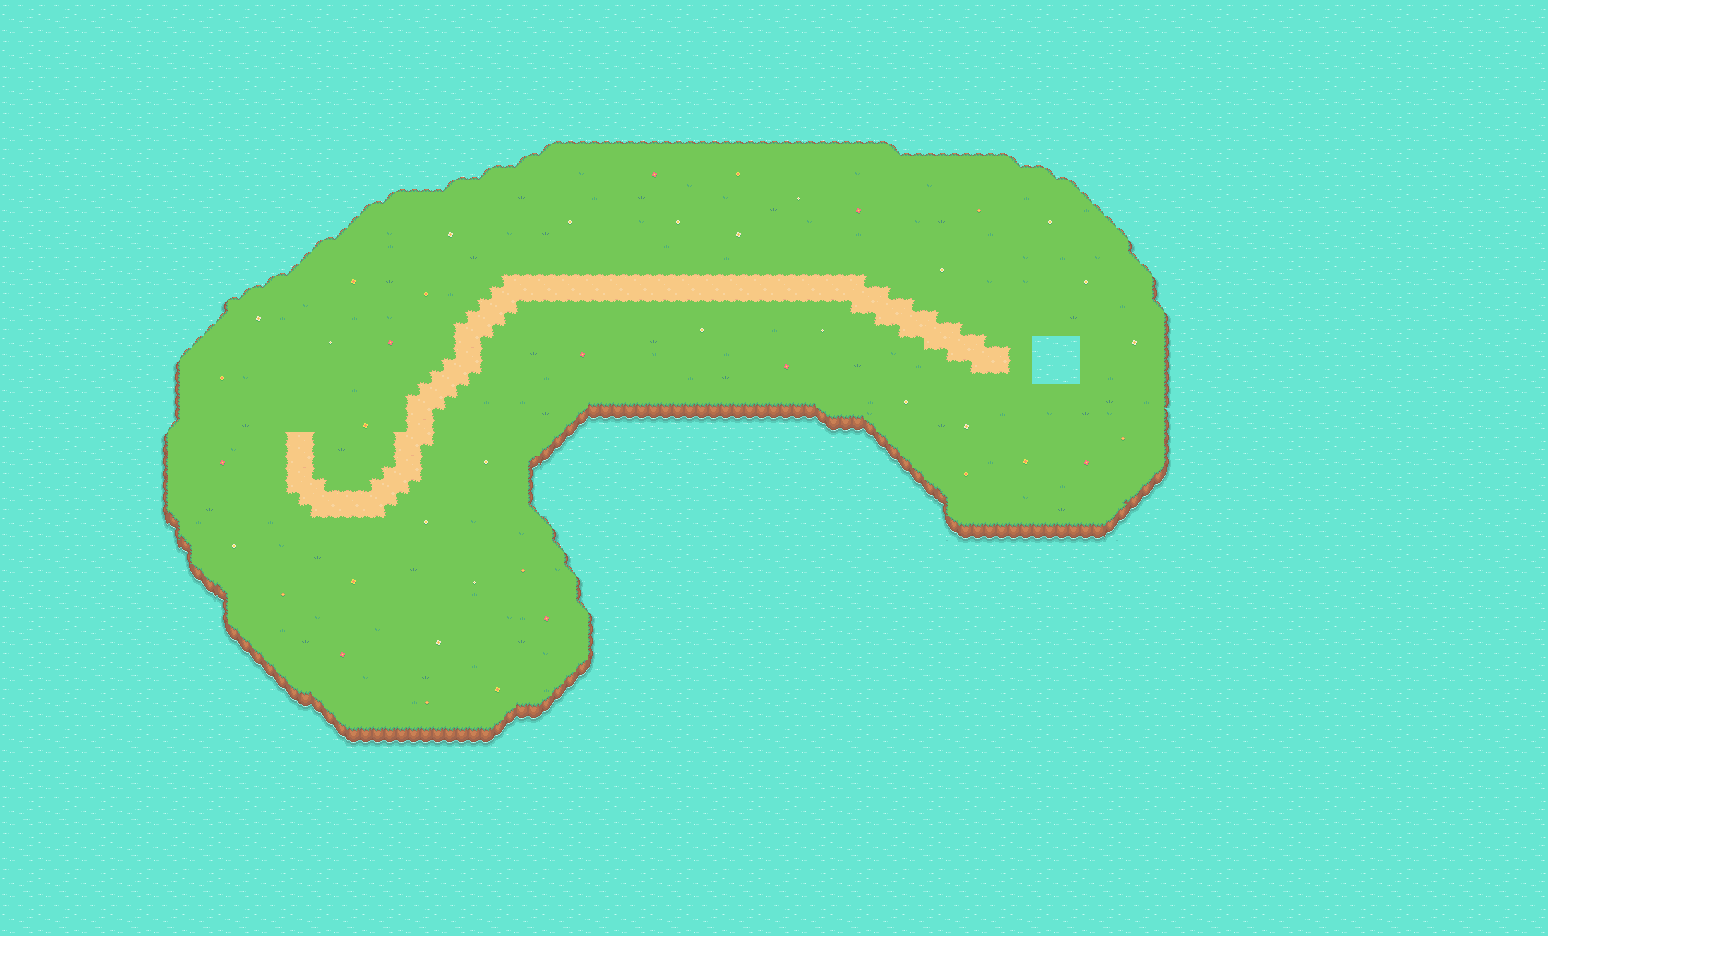
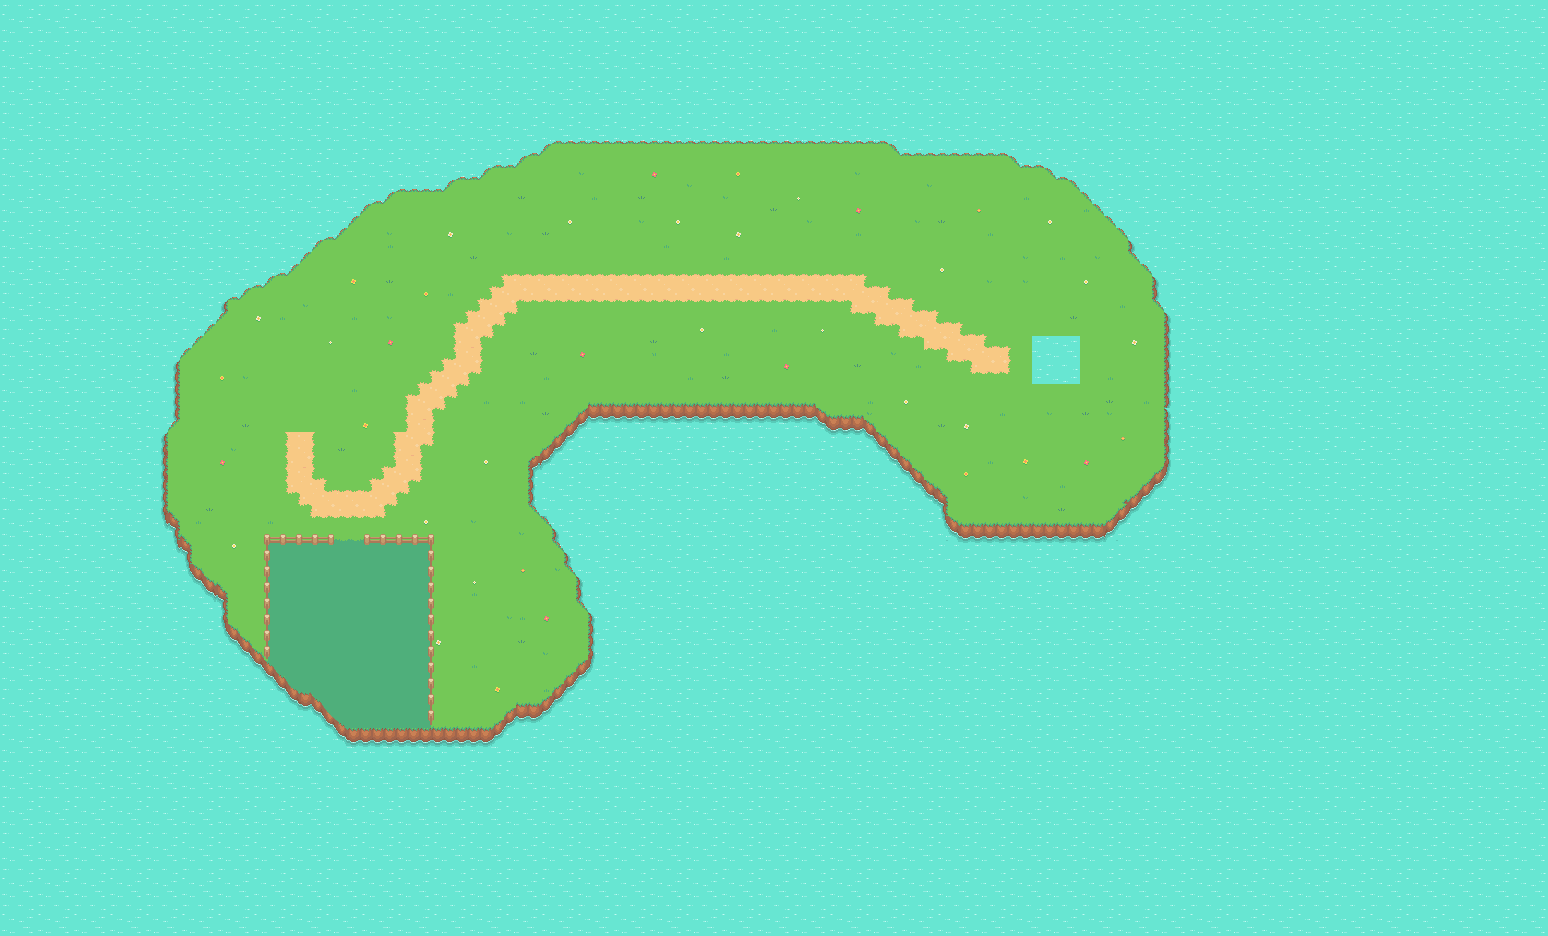
Added new map tiles, fences, beds and correct colliders.

Changed region(s): [[0.093, 0.1239, 0.7752, 0.8056], [0.0, 0.0, 1.0, 1.0]]

diff --git a/src/App.vue b/src/App.vue
@@ -2,6 +2,8 @@
   <div class="console">
     <div class="pad">
       <div class="pad_top">
+        <!-- <p v-if="world != null">X:{{ Math.floor(world.player.x/12) }}</p> -->
+        <!-- <p v-if="world != null">Y:{{ Math.floor(world.player.y/12) }}</p> -->
         <div class="dinamic">
           <div class="sound_dot"></div>
           <div class="sound_dot"></div>
@@ -40,16 +42,29 @@
     </div>
     <div class="screen">
       <div class="screen_edge">
+
         <div class="world">
+          <div class="money" v-if="world != undefined">
+            <img src="./assets/coin.png" alt="">
+            <p>{{ world.player.money }}</p>
+          </div>
+          <div class="intentory">
+            <div class="backpack_icon">
+              <img src="./assets/backpack.png" alt="">
+            </div>
+          </div>
           <div class="map">
             <img src="./assets/map.png" alt="" class="map_bg">
+            <div class="shadow" v-if="world != undefined"
+              :style="`top:${world.player.y}px; left: ${world.player.x}px; background-color: rgba(0,0,0,0.2); width:38px; height:18px; border-radius:10px; transform:scaleY(0.5) scaleX(0.9) translateX(-5px) translateY(65px);`">
+            </div>
             <img src="" alt="" class="player">
             <img v-if="world != undefined" v-for="(obj, i) of world.objects" :key="i" :src="obj.image"
               :class="obj.class" :style="`top:calc(12px*${obj.x});left:calc(12px*${obj.y})`" alt="" @click="test">
-            <img v-if="world != undefined" v-for="(obj, i) of world.objects" :key="i"
-              :style="`position: absolute; border: 2px solid red; top:calc(12px*${obj.collider.y});left:calc(12px*${obj.collider.x}); width:calc(12px*${obj.collider.width}); height:calc(12px*${obj.collider.height});`">
-            <div v-if="world != undefined" class="center" :style="`width: 5px; height: 5px; top:calc(1px*${world.player.y});left:calc(1px*${world.player.x})`"></div>
-            </div>
+            <img class="collider" v-if="world != undefined" v-for="(obj, i) of world.objects" :key="i"
+              :style="`top:calc(12px*${obj.collider.y});left:calc(12px*${obj.collider.x}); width:calc(12px*${obj.collider.width}); height:calc(12px*${obj.collider.height});`">
+            <!-- <div v-if="world != undefined" class="center" :style="`width: 5px; height: 5px; top:calc(1px*${world.player.y});left:calc(1px*${world.player.x})`"></div> -->
+          </div>
         </div>
       </div>
     </div>
@@ -112,6 +127,9 @@ window.addEventListener('keydown', (e) => {
   if (e.key == "s") {
     keys.s = true
   }
+  if (e.key == "Tab") {
+    keys.s = true
+  }
 })
 window.addEventListener('keyup', (e) => {
   if (e.key == "a") {
@@ -129,23 +147,47 @@ window.addEventListener('keyup', (e) => {
 })
 
 class Props {
-  constructor(name, img, x, y, cx, cy, cw, ch) {
+  constructor(name, x, y, cx, cy, cw, ch) {
     this.x = x
     this.y = y
     this.width = 0
     this.height = 0
-    this.image = img
     this.class = name
+    this.name = name
     this.collider = {
-      x: cx,
-      y: cy,
-      width: cw,
-      height: ch
+      x: cx - cw / 2,
+      y: cy - ch / 2,
+      width: cw * 2,
+      height: ch * 2
     }
+  }
+  get image() {
+    return `./src/assets/${this.name}.png`
   }
 }
 
-const speed = 6
+class Upgradable extends Props {
+  constructor(name, x, y, cx, cy, cw, ch) {
+    super(name, x, y, cx, cy, cw, ch)
+    this.level = 0
+    this.class += " upgradable"
+  }
+  get image() {
+    return `./src/assets/${this.name}_lvl${this.level}.png`
+  }
+}
+
+class Bed extends Upgradable {
+  constructor(name, x, y, cx, cy, cw, ch) {
+    super(name, x, y, cx, cy, cw, ch)
+    this.class += " bed"
+  }
+  get image() {
+    return `./src/assets/bed_lvl${this.level}_${this.name}.png`
+  }
+}
+
+const speed = 4
 const tileSize = 12
 
 const test = (e) => {
@@ -157,11 +199,13 @@ class Player {
     this.height = tileSize * 1.5
     this.width = tileSize * 1
     this.x = -260;
-    this.y = 380;
+    this.y = 390;
     this.currentAnimation = 0
     this.direction = "down"
     this.img = document.querySelector('.player')
     this.animateInterval = null
+    this.inventory = []
+    this.money = 100
   }
   draw() {
     this.img.src = `./src/assets/player_${this.direction}${this.currentAnimation}.png`
@@ -185,8 +229,66 @@ class Map {
     this.globalOffsetY = 0
     this.scale = 2
     this.objects = [
-      new Props('lake', './src/assets/lake.png', 22, 106, 102, 18, 4, 4),
-      new Props('house', './src/assets/house_lvl1.png', 23, -24, -24, 26, 4, 4),
+      // Get from json
+      new Props('lake', 17, 102, 102, 17, 4, 5),
+      new Upgradable('house', 23, -24, -24, 26, 4, 4),
+      new Props('tree', -5, 25, 25.5, -1.5, 2.5, 1.5),
+      new Props('tree', -3, 20, 20.5, 0.5, 2.5, 1.5),
+      new Props('tree', -9, 30, 30.5, -5.5, 2.5, 1.5),
+      new Props('tree', -7, 36, 36.5, -3.5, 2.5, 1.5),
+      new Props('tree', -1, 29, 29.5, 1.5, 2.5, 1.5),
+      new Props('tree', -9, 27 + 30, 27.5 + 30, -5.5, 2.5, 1.5),
+      new Props('tree', -7, 36 + 30, 36.5 + 30, -3.5, 2.5, 1.5),
+      new Props('tree', -5, 30 + 30, 30.5 + 30, -1.5, 2.5, 1.5),
+      new Props('tree', -3, 25 + 30, 25.5 + 30, 0.5, 2.5, 1.5),
+      new Upgradable('apple_tree', 30, -15, -14, 36, 3.5, 1.5),
+      new Upgradable('apple_tree', 30, -35, -34, 36, 3.5, 1.5),
+      new Bed('wheat', 54, -24, -24, 54, 4, 4),
+      new Bed('wheat', 64, -24, -24, 64, 4, 4),
+      new Bed('tomatoes', 54, -8, -8, 54, 4, 4),
+      new Bed('tomatoes', 64, -8, -8, 64, 4, 4),
+      new Bed('tomatoes', 74, -8, -8, 74, 4, 4),
+      new Props('edge', 0, 0, 17, 38, 2, 4),
+      new Props('edge', 0, 0, 19, 35, 2, 2),
+      new Props('edge', 0, 0, 21, 33, 2, 2),
+      new Props('edge', 0, 0, 23, 31, 2, 2),
+      new Props('edge', 0, 0, 25, 29, 2, 2),
+      new Props('edge', 0, 0, 36, 28, 20, 2),
+      new Props('edge', 0, 0, 19, 44, 2, 2),
+      new Props('edge', 0, 0, 21, 46, 2, 2),
+      new Props('edge', 0, 0, 23, 48, 2, 4),
+      new Props('edge', 0, 0, 25, 54, 2, 4),
+      new Props('edge', 0, 0, 27, 60, 2, 6),
+      new Props('edge', 0, 0, 25, 70, 2, 2),
+      new Props('edge', 0, 0, 23, 72, 2, 2),
+      new Props('edge', 0, 0, 21, 74, 2, 2),
+      new Props('edge', 0, 0, 19, 76, 2, 2),
+      new Props('edge', 0, 0, 15, 78, 4, 2),
+      new Props('edge', 0, 0, 11, 80, 2, 2),
+      new Props('edge', 0, 0, -7, 82, 13, 2),
+      new Props('edge', 0, 0, -17, 80, 2, 2),
+      new Props('edge', 0, 0, -20, 78, 2, 2),
+      new Props('edge', 0, 0, -22, 76, 2, 2),
+      new Props('edge', 0, 0, -26, 74, 2, 2),
+      new Props('edge', 0, 0, -28, 72, 2, 2),
+      new Props('edge', 0, 0, -30, 70, 2, 2),
+      new Props('edge', 0, 0, -32, 68, 2, 2),
+      new Props('edge', 0, 0, -34, 66, 2, 2),
+      new Props('edge', 0, 0, -37, 60, 2, 4),
+      new Props('edge', 0, 0, -39, 57, 2, 2),
+      new Props('edge', 0, 0, -41, 55, 2, 2),
+      new Props('edge', 0, 0, -43, 51, 2, 3),
+      new Props('edge', 0, 0, -45, 47, 2, 2),
+      new Props('edge', 0, 0, -47, 36, 2, 6),
+      new Props('edge', 0, 0, -46, 29, 2, 2),
+      new Props('edge', 0, 0, -45, 22, 2, 6),
+      new Props('edge', 0, 0, -43, 16, 2, 2),
+      new Props('edge', 0, 0, -41, 13, 2, 2),
+      new Props('edge', 0, 0, -38, 10, 2, 2),
+      new Props('edge', 0, 0, -27.5, 55, 1, 10),
+      new Props('edge', 0, 0, -0.5, 57, 1, 15),
+      new Props('edge', 0, 0, -24, 50, 5, 1),
+      new Props('edge', 0, 0, -9, 50, 5, 1),
     ]
     this.player = new Player()
   }
@@ -217,8 +319,7 @@ class Map {
 
         for (let i = 0; i < this.objects.length; i++) {
           const obj = this.objects[i]
-          if (this.player.x / 12 <= obj.collider.x + obj.collider.width && this.player.x / 12 >= obj.collider.x && this.player.y / 12 <= obj.collider.y + obj.collider.height && this.player.y / 12 >= obj.collider.y) {
-            console.log(this.player.x / 12, obj.collider.x + obj.collider.width, this.player.x / 12 + this.player.width, obj.collider.x, this.player.y / 12, obj.collider.y + obj.collider.height, this.player.y / 12 + this.player.height, obj.collider.y)
+          if (this.player.x / 12 <= obj.collider.x + obj.collider.width && (this.player.x + this.player.width * 2) / 12 >= obj.collider.x && this.player.y / 12 <= obj.collider.y + obj.collider.height && (this.player.y + this.player.height * 2) / 12 >= obj.collider.y) {
             this.offsetX -= speed
             this.offsetY -= speed
             this.player.x += speed
@@ -239,8 +340,7 @@ class Map {
         this.player.y += speed
         for (let i = 0; i < this.objects.length; i++) {
           const obj = this.objects[i]
-          if (this.player.x / 12 <= obj.collider.x + obj.collider.width && this.player.x / 12 >= obj.collider.x && this.player.y / 12 <= obj.collider.y + obj.collider.height && this.player.y / 12 >= obj.collider.y) {
-            console.log(this.player.x / 12, obj.collider.x + obj.collider.width, this.player.x / 12 + this.player.width, obj.collider.x, this.player.y / 12, obj.collider.y + obj.collider.height, this.player.y / 12 + this.player.height, obj.collider.y)
+          if (this.player.x / 12 <= obj.collider.x + obj.collider.width && (this.player.x + this.player.width * 2) / 12 >= obj.collider.x && this.player.y / 12 <= obj.collider.y + obj.collider.height && (this.player.y + this.player.height * 2) / 12 >= obj.collider.y) {
             this.offsetX -= speed
             this.offsetY += speed
             this.player.x += speed
@@ -261,8 +361,7 @@ class Map {
 
         for (let i = 0; i < this.objects.length; i++) {
           const obj = this.objects[i]
-          if (this.player.x / 12 <= obj.collider.x + obj.collider.width && this.player.x / 12 >= obj.collider.x && this.player.y / 12 <= obj.collider.y + obj.collider.height && this.player.y / 12 >= obj.collider.y) {
-            console.log(this.player.x / 12, obj.collider.x + obj.collider.width, this.player.x / 12 + this.player.width, obj.collider.x, this.player.y / 12, obj.collider.y + obj.collider.height, this.player.y / 12 + this.player.height, obj.collider.y)
+          if (this.player.x / 12 <= obj.collider.x + obj.collider.width && (this.player.x + this.player.width * 2) / 12 >= obj.collider.x && this.player.y / 12 <= obj.collider.y + obj.collider.height && (this.player.y + this.player.height * 2) / 12 >= obj.collider.y) {
             this.offsetX += speed
             this.offsetY -= speed
             this.player.x -= speed
@@ -284,8 +383,7 @@ class Map {
 
         for (let i = 0; i < this.objects.length; i++) {
           const obj = this.objects[i]
-          if (this.player.x / 12 <= obj.collider.x + obj.collider.width && this.player.x / 12 >= obj.collider.x && this.player.y / 12 <= obj.collider.y + obj.collider.height && this.player.y / 12 >= obj.collider.y) {
-            console.log(this.player.x / 12, obj.collider.x + obj.collider.width, this.player.x / 12 + this.player.width, obj.collider.x, this.player.y / 12, obj.collider.y + obj.collider.height, this.player.y / 12 + this.player.height, obj.collider.y)
+          if (this.player.x / 12 <= obj.collider.x + obj.collider.width && (this.player.x + this.player.width * 2) / 12 >= obj.collider.x && this.player.y / 12 <= obj.collider.y + obj.collider.height && (this.player.y + this.player.height * 2) / 12 >= obj.collider.y) {
             this.offsetX += speed
             this.offsetY += speed
             this.player.x -= speed
@@ -305,8 +403,7 @@ class Map {
 
         for (let i = 0; i < this.objects.length; i++) {
           const obj = this.objects[i]
-          if (this.player.x / 12 <= obj.collider.x + obj.collider.width && this.player.x / 12 >= obj.collider.x && this.player.y / 12 <= obj.collider.y + obj.collider.height && this.player.y / 12 >= obj.collider.y) {
-            console.log(this.player.x / 12, obj.collider.x + obj.collider.width, this.player.x / 12 + this.player.width, obj.collider.x, this.player.y / 12, obj.collider.y + obj.collider.height, this.player.y / 12 + this.player.height, obj.collider.y)
+          if (this.player.x / 12 <= obj.collider.x + obj.collider.width && (this.player.x + this.player.width * 2) / 12 >= obj.collider.x && this.player.y / 12 <= obj.collider.y + obj.collider.height && (this.player.y + this.player.height * 2) / 12 >= obj.collider.y) {
             this.offsetX -= speed
             this.player.x += speed
           }
@@ -324,8 +421,7 @@ class Map {
 
         for (let i = 0; i < this.objects.length; i++) {
           const obj = this.objects[i]
-          if (this.player.x / 12 <= obj.collider.x + obj.collider.width && this.player.x / 12 >= obj.collider.x && this.player.y / 12 <= obj.collider.y + obj.collider.height && this.player.y / 12 >= obj.collider.y) {
-            console.log(this.player.x / 12, obj.collider.x + obj.collider.width, this.player.x / 12 + this.player.width, obj.collider.x, this.player.y / 12, obj.collider.y + obj.collider.height, this.player.y / 12 + this.player.height, obj.collider.y)
+          if (this.player.x / 12 <= obj.collider.x + obj.collider.width && (this.player.x + this.player.width * 2) / 12 >= obj.collider.x && this.player.y / 12 <= obj.collider.y + obj.collider.height && (this.player.y + this.player.height * 2) / 12 >= obj.collider.y) {
             this.offsetX += speed
             this.player.x -= speed
           }
@@ -343,8 +439,7 @@ class Map {
 
         for (let i = 0; i < this.objects.length; i++) {
           const obj = this.objects[i]
-          if (this.player.x / 12 <= obj.collider.x + obj.collider.width && this.player.x / 12 >= obj.collider.x && this.player.y / 12 <= obj.collider.y + obj.collider.height && this.player.y / 12 >= obj.collider.y) {
-            console.log(this.player.x / 12, obj.collider.x + obj.collider.width, this.player.x / 12, obj.collider.x, this.player.y / 12, obj.collider.y + obj.collider.height, this.player.y / 12, obj.collider.y)
+          if (this.player.x / 12 <= obj.collider.x + obj.collider.width && (this.player.x + this.player.width * 2) / 12 >= obj.collider.x && this.player.y / 12 <= obj.collider.y + obj.collider.height && (this.player.y + this.player.height * 2) / 12 >= obj.collider.y) {
             this.offsetY -= speed
             this.player.y += speed
           }
@@ -362,8 +457,7 @@ class Map {
 
         for (let i = 0; i < this.objects.length; i++) {
           const obj = this.objects[i]
-          if (this.player.x / 12 <= obj.collider.x + obj.collider.width && this.player.x / 12 >= obj.collider.x && this.player.y / 12 <= obj.collider.y + obj.collider.height && this.player.y / 12 >= obj.collider.y) {
-            console.log(this.player.x / 12, obj.collider.x + obj.collider.width, this.player.x / 12 + this.player.width, obj.collider.x, this.player.y / 12, obj.collider.y + obj.collider.height, this.player.y / 12 + this.player.height, obj.collider.y)
+          if (this.player.x / 12 <= obj.collider.x + obj.collider.width && (this.player.x + this.player.width * 2) / 12 >= obj.collider.x && this.player.y / 12 <= obj.collider.y + obj.collider.height && (this.player.y + this.player.height * 2) / 12 >= obj.collider.y) {
             this.offsetY += speed
             this.player.y -= speed
           }
@@ -402,6 +496,13 @@ onMounted(() => {
 </script>
 
 <style scoped>
+.collider {
+  transform: scale(1) !important;
+  position: absolute;
+  border: 2px solid red;
+  visibility: hidden;
+}
+
 .console {
   display: flex;
   padding: 25px;
@@ -491,7 +592,7 @@ onMounted(() => {
   display: flex;
   /* justify-content: space-between; */
   width: 100%;
-  gap: 35px;
+  gap: 45px;
   margin-top: -10px;
   margin-bottom: -10px;
 }
@@ -516,7 +617,7 @@ onMounted(() => {
 
 .horizontal_buttons {
   display: flex;
-  gap: 50px
+  gap: 60px
 }
 
 .button {
@@ -527,6 +628,8 @@ onMounted(() => {
   height: 60px;
   width: 60px;
   border-radius: 30px;
+  font-weight: bold;
+  font-size: 2em;
   background-color: var(--accent-color);
   box-shadow: inset -1px 1px 0.6px rgba(255, 255, 255, 0.250), -1px 1px 7px 4px rgba(0, 0, 0, 0.250);
 }
@@ -542,7 +645,6 @@ onMounted(() => {
 
 .world * {
   transform: scale(2);
-  transform-origin: left top;
   position: absolute;
   image-rendering: pixelated;
 }
@@ -553,6 +655,7 @@ onMounted(() => {
 
 .map_bg {
   position: relative;
+  left: -86px;
 }
 
 .house {
@@ -566,14 +669,57 @@ onMounted(() => {
 }
 
 .player {
-  width: 18px;
+  width: 15px;
+  transform-origin: left top;
 }
-.center{
+
+.center {
   height: 25px;
   width: 25px;
   border-radius: 25px;
   background-color: red;
   top: 0;
   left: 0;
+}
+
+.apple_tree {
+  width: 60px;
+}
+
+.upgradable {
+  transition: all 0.3s;
+}
+
+.upgradable:hover {
+  transform: scale(2.1);
+}
+
+.bed:hover {
+  transform: scale(2.2);
+}
+
+.money {
+  transform: none;
+  position: absolute;
+  top: 0;
+  right: 0;
+  padding: 25px;
+  color: white;
+  z-index: 100;
+  font-size: 12px;
+  background-color: #efca88;
+  border: 5px solid #b89a67;
+  border-radius: 15px;
+  display: flex;
+  justify-content: center;
+  align-items: center;
+}
+.money>*{
+  position: relative;
+  gap:25px;
+}
+
+.screen_edge {
+  position: relative;
 }
 </style>
